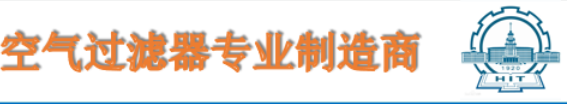
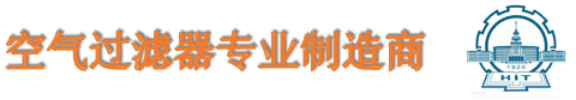
lbw home pages

Changed region(s): [[0.0, 0.27, 0.7496, 0.72], [0.8095, 0.03, 0.9894, 0.93], [0.0, 0.96, 1.0, 1.0]]

diff --git a/font/iconfont.js b/font/iconfont.js
@@ -1,1 +1,1 @@
-!function(e){var t,n,o,i,c,d='<svg><symbol id="icon-tel" viewBox="0 0 1024 1024"><path d="M969.154011 895.670857L912.504869 954.112C869.423726 998.509714 809.483154 1023.963429 748.006583 1023.963429 721.748297 1023.963429 695.819154 1019.428571 671.023726 1010.505143 364.116297 899.876571 120.98944 645.668571 20.674011 330.459429-9.460846 235.739429 22.502583 131.510857 100.216869 71.168L149.734583 32.694857C177.236297 11.300571 210.150583-0.036571 244.89344-0.036571 303.992869-0.036571 357.53344 33.28 384.596297 86.893714L468.344869 252.672C476.280869 268.434286 480.486583 286.061714 480.486583 303.725714 480.486583 331.812571 470.210011 358.656 451.558583 379.392L434.114011 398.701714C416.779154 417.901714 413.012297 446.317714 424.751726 469.467429 453.350583 525.933714 497.784869 571.172571 553.263726 600.283429 575.608869 612.059429 604.354011 608.073143 622.786011 590.774857L641.803154 573.074286C674.827154 542.098286 726.356297 534.966857 766.255726 555.885714L929.071726 641.097143C981.771154 668.708571 1014.539154 723.2 1014.539154 783.396571 1014.539154 825.636571 998.447726 865.536 969.154011 895.670857ZM941.396297 768C941.396297 715.373714 721.967726 621.714286 721.967726 621.714286 691.174583 610.450286 648.824869 658.285714 648.824869 658.285714 572.536869 714.788571 518.81344 671.926857 502.539154 658.285714 454.923154 618.459429 390.191726 532.370286 356.25344 475.428571 330.872869 432.749714 341.734583 382.171429 356.25344 365.714286 356.25344 365.714286 405.40544 323.291429 392.824869 292.571429 354.46144 197.376 294.594011 56.393143 246.539154 73.142857 204.847726 86.893714 30.255726 144.786286 109.21344 356.388571 249.282011 731.465143 540.792869 882.468571 718.23744 950.820571 841.958583 959.926857 951.234011 803.730286 941.396297 768Z" fill="#ffffff" ></path></symbol><symbol id="icon-dizhi" viewBox="0 0 1024 1024"><path d="M677.720857 371.147018c0-91.64321-74.28589-165.928077-165.928077-165.928077s-165.928077 74.28589-165.928077 165.928077S420.149571 537.075095 511.79278 537.075095 677.720857 462.789205 677.720857 371.147018zM382.737496 371.147018c0-71.26202 57.776891-129.055285 129.055285-129.055285 71.279417 0 129.055285 57.794287 129.055285 129.055285 0 71.278393-57.775868 129.055285-129.055285 129.055285C440.513364 500.202303 382.737496 442.425412 382.737496 371.147018zM806.776142 371.147018c0-162.903184-132.061758-294.984385-294.984385-294.984385S216.808396 208.242811 216.808396 371.147018s294.984385 516.222161 294.984385 516.222161S806.776142 534.050202 806.776142 371.147018zM511.79278 113.035426c142.540414 0 258.110569 115.552759 258.110569 258.111592 0 142.558833-258.110569 460.912461-258.110569 460.912461S253.681188 513.704828 253.681188 371.147018C253.681188 228.588185 369.251344 113.035426 511.79278 113.035426zM642.187573 769.187547c-8.074909 11.081383-15.950274 21.710464-23.52274 31.794124 78.722946 9.06854 132.801609 27.838022 132.801609 49.513694 0 30.53648-107.304911 55.3097-239.674685 55.3097-132.36875 0-239.674685-24.77322-239.674685-55.3097 0-21.675672 54.079686-40.444131 132.802632-49.513694-7.572466-10.083659-15.448854-20.712741-23.52274-31.794124-86.981027 15.531741-146.152684 46.113247-146.152684 81.307817 0 50.916647 123.81698 92.182492 276.5485 92.182492s276.547477-41.265846 276.547477-92.182492C788.340257 815.300794 729.1686 784.719288 642.187573 769.187547z" fill="#ffffff" ></path></symbol></svg>',l=(l=document.getElementsByTagName("script"))[l.length-1].getAttribute("data-injectcss"),s=function(e,t){t.parentNode.insertBefore(e,t)};if(l&&!e.__iconfont__svg__cssinject__){e.__iconfont__svg__cssinject__=!0;try{document.write("<style>.svgfont {display: inline-block;width: 1em;height: 1em;fill: currentColor;vertical-align: -0.1em;font-size:16px;}</style>")}catch(e){console&&console.log(e)}}function a(){c||(c=!0,o())}function r(){try{i.documentElement.doScroll("left")}catch(e){return void setTimeout(r,50)}a()}t=function(){var e,t=document.createElement("div");t.innerHTML=d,d=null,(t=t.getElementsByTagName("svg")[0])&&(t.setAttribute("aria-hidden","true"),t.style.position="absolute",t.style.width=0,t.style.height=0,t.style.overflow="hidden",t=t,(e=document.body).firstChild?s(t,e.firstChild):e.appendChild(t))},document.addEventListener?~["complete","loaded","interactive"].indexOf(document.readyState)?setTimeout(t,0):(n=function(){document.removeEventListener("DOMContentLoaded",n,!1),t()},document.addEventListener("DOMContentLoaded",n,!1)):document.attachEvent&&(o=t,i=e.document,c=!1,r(),i.onreadystatechange=function(){"complete"==i.readyState&&(i.onreadystatechange=null,a())})}(window);
+!function(e){var t,n,o,i,c,s='<svg><symbol id="icon-zhankai" viewBox="0 0 1024 1024"><path d="M96 160h832c19.2 0 32 12.8 32 32s-12.8 32-32 32h-832c-19.2 0-32-12.8-32-32s12.8-32 32-32z m0 320h832c19.2 0 32 12.8 32 32s-12.8 32-32 32h-832c-19.2 0-32-12.8-32-32s12.8-32 32-32z m0 320h832c19.2 0 32 12.8 32 32s-12.8 32-32 32h-832c-19.2 0-32-12.8-32-32s12.8-32 32-32z"  ></path></symbol><symbol id="icon-tel" viewBox="0 0 1024 1024"><path d="M969.154011 895.670857L912.504869 954.112C869.423726 998.509714 809.483154 1023.963429 748.006583 1023.963429 721.748297 1023.963429 695.819154 1019.428571 671.023726 1010.505143 364.116297 899.876571 120.98944 645.668571 20.674011 330.459429-9.460846 235.739429 22.502583 131.510857 100.216869 71.168L149.734583 32.694857C177.236297 11.300571 210.150583-0.036571 244.89344-0.036571 303.992869-0.036571 357.53344 33.28 384.596297 86.893714L468.344869 252.672C476.280869 268.434286 480.486583 286.061714 480.486583 303.725714 480.486583 331.812571 470.210011 358.656 451.558583 379.392L434.114011 398.701714C416.779154 417.901714 413.012297 446.317714 424.751726 469.467429 453.350583 525.933714 497.784869 571.172571 553.263726 600.283429 575.608869 612.059429 604.354011 608.073143 622.786011 590.774857L641.803154 573.074286C674.827154 542.098286 726.356297 534.966857 766.255726 555.885714L929.071726 641.097143C981.771154 668.708571 1014.539154 723.2 1014.539154 783.396571 1014.539154 825.636571 998.447726 865.536 969.154011 895.670857ZM941.396297 768C941.396297 715.373714 721.967726 621.714286 721.967726 621.714286 691.174583 610.450286 648.824869 658.285714 648.824869 658.285714 572.536869 714.788571 518.81344 671.926857 502.539154 658.285714 454.923154 618.459429 390.191726 532.370286 356.25344 475.428571 330.872869 432.749714 341.734583 382.171429 356.25344 365.714286 356.25344 365.714286 405.40544 323.291429 392.824869 292.571429 354.46144 197.376 294.594011 56.393143 246.539154 73.142857 204.847726 86.893714 30.255726 144.786286 109.21344 356.388571 249.282011 731.465143 540.792869 882.468571 718.23744 950.820571 841.958583 959.926857 951.234011 803.730286 941.396297 768Z" fill="#ffffff" ></path></symbol><symbol id="icon-dizhi" viewBox="0 0 1024 1024"><path d="M677.720857 371.147018c0-91.64321-74.28589-165.928077-165.928077-165.928077s-165.928077 74.28589-165.928077 165.928077S420.149571 537.075095 511.79278 537.075095 677.720857 462.789205 677.720857 371.147018zM382.737496 371.147018c0-71.26202 57.776891-129.055285 129.055285-129.055285 71.279417 0 129.055285 57.794287 129.055285 129.055285 0 71.278393-57.775868 129.055285-129.055285 129.055285C440.513364 500.202303 382.737496 442.425412 382.737496 371.147018zM806.776142 371.147018c0-162.903184-132.061758-294.984385-294.984385-294.984385S216.808396 208.242811 216.808396 371.147018s294.984385 516.222161 294.984385 516.222161S806.776142 534.050202 806.776142 371.147018zM511.79278 113.035426c142.540414 0 258.110569 115.552759 258.110569 258.111592 0 142.558833-258.110569 460.912461-258.110569 460.912461S253.681188 513.704828 253.681188 371.147018C253.681188 228.588185 369.251344 113.035426 511.79278 113.035426zM642.187573 769.187547c-8.074909 11.081383-15.950274 21.710464-23.52274 31.794124 78.722946 9.06854 132.801609 27.838022 132.801609 49.513694 0 30.53648-107.304911 55.3097-239.674685 55.3097-132.36875 0-239.674685-24.77322-239.674685-55.3097 0-21.675672 54.079686-40.444131 132.802632-49.513694-7.572466-10.083659-15.448854-20.712741-23.52274-31.794124-86.981027 15.531741-146.152684 46.113247-146.152684 81.307817 0 50.916647 123.81698 92.182492 276.5485 92.182492s276.547477-41.265846 276.547477-92.182492C788.340257 815.300794 729.1686 784.719288 642.187573 769.187547z" fill="#ffffff" ></path></symbol></svg>',d=(d=document.getElementsByTagName("script"))[d.length-1].getAttribute("data-injectcss"),l=function(e,t){t.parentNode.insertBefore(e,t)};if(d&&!e.__iconfont__svg__cssinject__){e.__iconfont__svg__cssinject__=!0;try{document.write("<style>.svgfont {display: inline-block;width: 1em;height: 1em;fill: currentColor;vertical-align: -0.1em;font-size:16px;}</style>")}catch(e){console&&console.log(e)}}function a(){c||(c=!0,o())}function r(){try{i.documentElement.doScroll("left")}catch(e){return void setTimeout(r,50)}a()}t=function(){var e,t=document.createElement("div");t.innerHTML=s,s=null,(t=t.getElementsByTagName("svg")[0])&&(t.setAttribute("aria-hidden","true"),t.style.position="absolute",t.style.width=0,t.style.height=0,t.style.overflow="hidden",t=t,(e=document.body).firstChild?l(t,e.firstChild):e.appendChild(t))},document.addEventListener?~["complete","loaded","interactive"].indexOf(document.readyState)?setTimeout(t,0):(n=function(){document.removeEventListener("DOMContentLoaded",n,!1),t()},document.addEventListener("DOMContentLoaded",n,!1)):document.attachEvent&&(o=t,i=e.document,c=!1,r(),i.onreadystatechange=function(){"complete"==i.readyState&&(i.onreadystatechange=null,a())})}(window);

diff --git a/index.html b/index.html
@@ -10,10 +10,12 @@
   <link rel="shortcut icon" href="./images/icon.ico" type="image/x-icon"> 
   <link rel="stylesheet" href="./font/iconfont.css">
   <link rel="stylesheet" href="./normalize.css">
-  <link rel="stylesheet" href="./index.css">
   <link rel="stylesheet" href="./css/head.css">
   <link rel="stylesheet" href="./css/footer.css">
   <link rel="stylesheet" href="./css/pages/home.css">
+  <link rel="stylesheet" href="./index.css">
+
+  <script src="./index.js" defer></script>
 </head>
 <body>
   <div class="container">
@@ -24,12 +26,16 @@
         <img src="./images/title.png" alt="山东枫润净化设备有限公司" class="title-img">
       </a>
       <img src="./images/title1.png" alt="" class="title-middle">
-      <img src="./images//desc.png" alt="空气过滤器专业制造商">
+      <img src="./images//desc.png" alt="空气过滤器专业制造商" class="title-right">
+      <div class="mobile-phone" hidden>
+        <img src="./images/logo.png" alt="">
+        <span class="iconfont icon-zhankai" id="expand"></span>
+      </div>
     </header>
 
     <!-- 页面导航 -->
-    <div class="nav">
-      <label for="home">首页</label>
+    <div class="nav nav-none" id="nav">
+      <label for="home" class="nav-active">首页</label>
       <label for="introduction">公司介绍</label>
       <label for="product-center">产品中心</label>
       <label for="application-project">应用项目</label>
@@ -54,27 +60,53 @@
         </div>
         <div class="production-dispaly">
           <div class="sumary">产品展示</div>
-          <div class="images">
+          <div class="images images1">
             <img src="./images/home/production1.png" alt="">
             <img src="./images/home/production2.png" alt="">
             <img src="./images/home/production3.png" alt="">
             <img src="./images/home/production4.png" alt="">
           </div>
-          <p><span>主要通用型产品：</span>各式空气过滤器、过滤棉过滤材料、全系列初、中、高效空气过滤器；环保专用活性炭吸附过滤器，净化器及新风机专用过滤器，过滤网等。
+          <p><span style="font-weight: 700;">主要通用型产品：</span>各式空气过滤器、过滤棉过滤材料、全系列初、中、高效空气过滤器；环保专用活性炭吸附过滤器，净化器及新风机专用过滤器，过滤网等。
           </p>
-          <div class="images">
+          <div class="images images2">
             <img src="./images/home/production5.png" alt="">
             <img src="./images/home/production6.png" alt="">
             <img src="./images/home/production7.png" alt="">
           </div>
-          <p><span>自主知识产权的专有产品：</span>针对近海工业厂房高腐蚀环境下电子元器件的腐蚀问题，自主研发了可高效吸收盐雾、酸雾、二氧化硫、硫化氢、及甲醛等有害气体的化学过滤器滤芯及微正压密封防腐整机设备，对上述有害物质的去除率可达90%以上，滤芯寿命长，可使中控室内电子设备维保周期延长2倍以上。
+          <p><span  style="font-weight: 700;">自主知识产权的专有产品：</span>针对近海工业厂房高腐蚀环境下电子元器件的腐蚀问题，自主研发了可高效吸收盐雾、酸雾、二氧化硫、硫化氢、及甲醛等有害气体的化学过滤器滤芯及微正压密封防腐整机设备，对上述有害物质的去除率可达90%以上，滤芯寿命长，可使中控室内电子设备维保周期延长2倍以上。
           </p>
         </div>
         <div class="advantage">
-
+          <div class="sumary">核心优势</div>
+          <div class="advantage-cont">
+            <img src="./images/home/advantage-cont.png" alt="">
+          </div>
         </div>
         <div class="production-feature">
-
+          <div class="sumary">产品特点</div>
+          <div class="df-cont">
+            <div>
+              <img src="./images//home/pf1.png" alt="">
+              <p>选用国内外最优质的原材料，抗油抗水渗透，滤纸纤维细且分布均匀，滤纸效率高，风速均匀且阻力低;袋式容尘层因选用更纤细维熔喷成型，所以手感更蓬松，实测容尘量高出现有常见产品1倍以上。
+                </p>  
+            </div>
+            <div>
+              <img src="./images//home/pf2.png" alt="">
+              <p>采用进口折纸机打折上胶，折纸笔挺、折距均匀;为空气过滤器达到最小阻力，经反复调整折距测试，得出最佳折距，公司生产产品与市场常见产品效率相同情况下，阻力低15%——20%
+              </p>
+            </div>
+            <div>
+              <img src="./images//home/pf3.png" alt="">
+              <p>为提高使用寿命，减少更换频次，请尽量选用过滤面积大的过滤器，过滤面积增加50%，使用寿命可增加一倍﹔合理搭配过滤梯度，充分发挥每一级空气过滤器的预过滤作用，对减少管道积灰，保护送风系统中的表冷器等配件有显著效果。
+              </p>
+            </div>
+            <div>
+              <img src="./images//home/pf4.png" alt="">
+              <p>
+                对高效洁净的洁净室如有一个过滤器存在泄露，整个洁净室都不会达标﹔因此高效过滤器出厂前必须逐台检测，效率、风量、阻力、泄露率都合格才允许出厂。
+              </p>
+            </div>
+          </div>
         </div>
       </div>
 

diff --git a/css/pages/home.css b/css/pages/home.css
@@ -1,6 +1,7 @@
 main {
   display: flex;
   width: 500%;
+  margin-bottom: 1rem;
 }
 
 main > div {
@@ -10,10 +11,11 @@ main > div {
 
 main input:checked + div {
   visibility: visible;
-  transition: transform calc(var(--offsetx) * 1s) linear;
-  transition-delay: calc(var(--offsetx) * (1 - 1 / var(--offsetx))* -1s);
+  transition: transform calc(var(--offsetx) * .2s) linear;
+  transition-delay: calc(var(--offsetx) * (1 - 1 / var(--offsetx))* -.2s);
   transform: translateX(calc(var(--offsetx) * -100%));
 }
+
 .home {
   width: 100%;
 }
@@ -37,11 +39,18 @@ main input:checked + div {
   font-size: .8rem;
   color: white;
 }
+
+/* 产品展示 */
 .production-dispaly {
   width: 100%;
 }
+.production-dispaly p {
+  padding: 0 1rem;
+  line-height: 1.4rem;
+  font-size: .8rem;
+}
 .sumary {
-  padding: 1.4rem 0;
+  padding: 1rem 0;
   font-size: 1.4rem;
   text-align: center;
   font-weight: 700;
@@ -49,9 +58,35 @@ main input:checked + div {
 }
 .production-dispaly .images {
   display: flex;
+  flex-wrap: wrap;
   justify-content: space-around;
+  
 }
-.images img {
-  width: 22%;
-  flex: 1 1;
+.images1 img {
+  flex: 0;
+  width: clamp(160px, 12vw, 350px);
+  margin-bottom: 10px;
+}
+.images2 img {
+  flex: 0;
+  width: clamp(250px, 15vw, 400px);
+  margin-bottom: 10px;
+}
+
+/* 核心优势 */
+.advantage-cont img {
+  width: 100%;
+}
+
+/* 产品特点 */
+.df-cont {
+  width: calc(100% - 2rem);
+  margin: auto;
+}
+.df-cont img {
+  width: 100%;
+}
+.df-cont p {
+  line-height: 1.4rem;
+  font-size: .8rem;
 }

diff --git a/css/head.css b/css/head.css
@@ -1,13 +1,27 @@
 header {
-  height: 70px;
+  display: flex;
+  justify-content: space-between;
+  height: clamp(59px, 8vw, 80px);
   line-height: 50px;
 }
 header h1 {
   position: absolute;
-  opacity: 0;
+  visibility: hidden;
 }
 header img {
   height: 100%;
+}
+.mobile-phone {
+  display: none;
+  justify-content: space-evenly;
+  align-items: center;
+  width: 160px;
+}
+.mobile-phone img{
+  height: 59px;
+}
+.mobile-phone span {
+  font-size: 35px;
 }
 
 .nav {
@@ -16,10 +30,34 @@ header img {
   align-items: center;
   width: 100%;
   height: 60px;
+  margin-bottom: 2px;
   background-color: rgb(22, 111, 212);
-  font-size: 22px;
+  font-size: 1rem;
   color: #fff;
 }
 .nav label {
   line-height: 100%;
+}
+
+.mobile-nav {
+  display: flex;
+  position: absolute;
+  z-index: 1;
+  right: 0;
+  flex-direction: column;
+  justify-content: space-around;
+  align-items: center;
+  width: 100px;
+  height: 250px;
+  border-radius: 5px;
+  background-color: rgb(22, 111, 212);
+  font-size: 1rem;
+  color: #fff;
+}
+
+.nav-active {
+  color: red;
+}
+#nav label {
+  padding: .5rem;
 }

diff --git a/index.js b/index.js
@@ -1,0 +1,24 @@
+const expandEle = document.getElementById('expand')
+const navEle = document.getElementById('nav')
+
+expandEle.onclick = function () {
+  if (navEle.classList.contains('nav')) {
+    navEle.classList.remove('nav')
+  }
+  navEle.classList.toggle('mobile-nav')
+  navEle.classList.toggle('nav-none')
+}
+
+let activeNode = null
+const labels = navEle.children
+console.log(labels);
+activeNode = labels[0]
+navEle.onclick = function (e) {
+  if (navEle !== e.target) {
+    activeNode.classList.remove('nav-active')
+    e.target.classList.add('nav-active')
+    activeNode = e.target
+    navEle.classList.remove('mobile-nav')
+    navEle.classList.toggle('nav-none')
+  }
+}

diff --git a/font/iconfont.css b/font/iconfont.css
@@ -1,8 +1,8 @@
 @font-face {
   font-family: "iconfont"; /* Project id 3368626 */
-  src: url('iconfont.woff2?t=1651220583713') format('woff2'),
-       url('iconfont.woff?t=1651220583713') format('woff'),
-       url('iconfont.ttf?t=1651220583713') format('truetype');
+  src: url('iconfont.woff2?t=1651391515193') format('woff2'),
+       url('iconfont.woff?t=1651391515193') format('woff'),
+       url('iconfont.ttf?t=1651391515193') format('truetype');
 }
 
 .iconfont {
@@ -11,6 +11,10 @@
   font-style: normal;
   -webkit-font-smoothing: antialiased;
   -moz-osx-font-smoothing: grayscale;
+}
+
+.icon-zhankai:before {
+  content: "\e786";
 }
 
 .icon-tel:before {

diff --git a/index.css b/index.css
@@ -26,3 +26,21 @@ html {
     font-size: calc(22px + 5 * (100vw - 1000px) / 1000);
   }
 }
+
+/* 头部适配 */
+@media (max-width: 1500px) {
+  .title-middle {
+    display: none;
+  }
+}
+@media (max-width: 414px) {
+  .title-right {
+    display: none;
+  }
+  .nav-none {
+    display: none;
+  }
+  .mobile-phone {
+    display: flex;
+  }
+}

diff --git a/css/footer.css b/css/footer.css
@@ -6,7 +6,7 @@ footer {
 }
 .about-info {
   display: flex;
-  font-size: 14px;
+  font-size: .6rem;
   text-align: left;
 }
 .about-info div:first-child {
